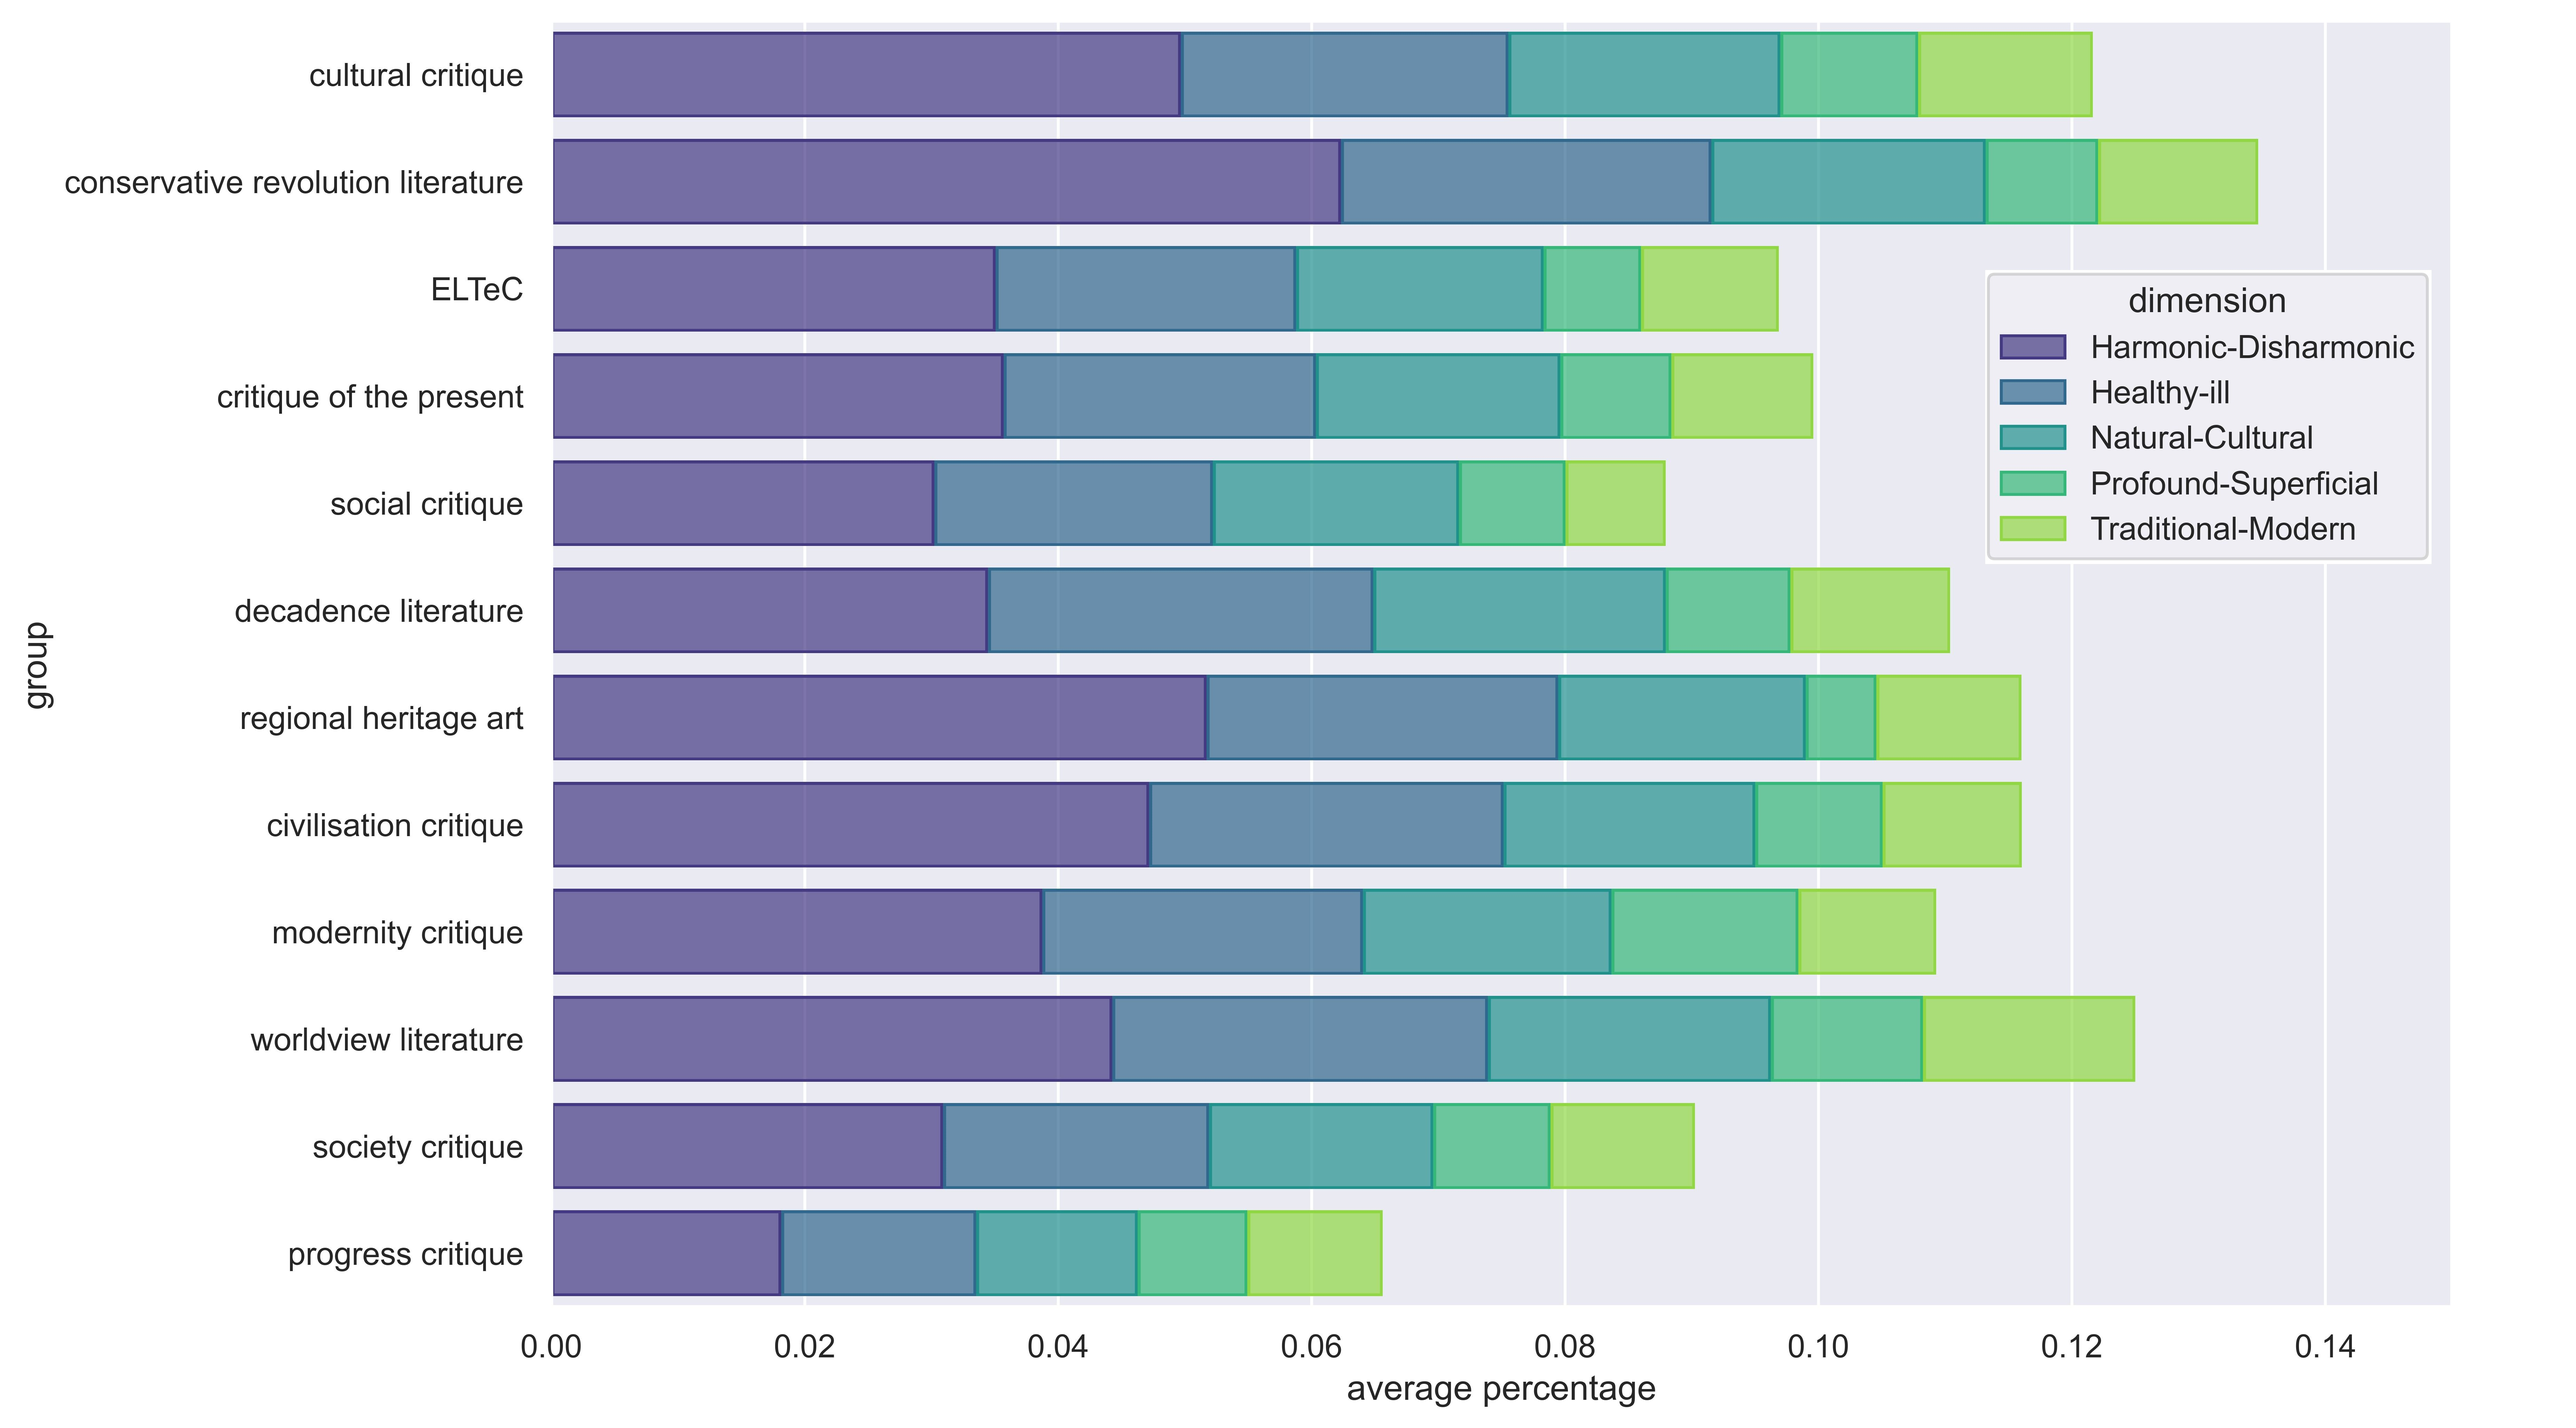
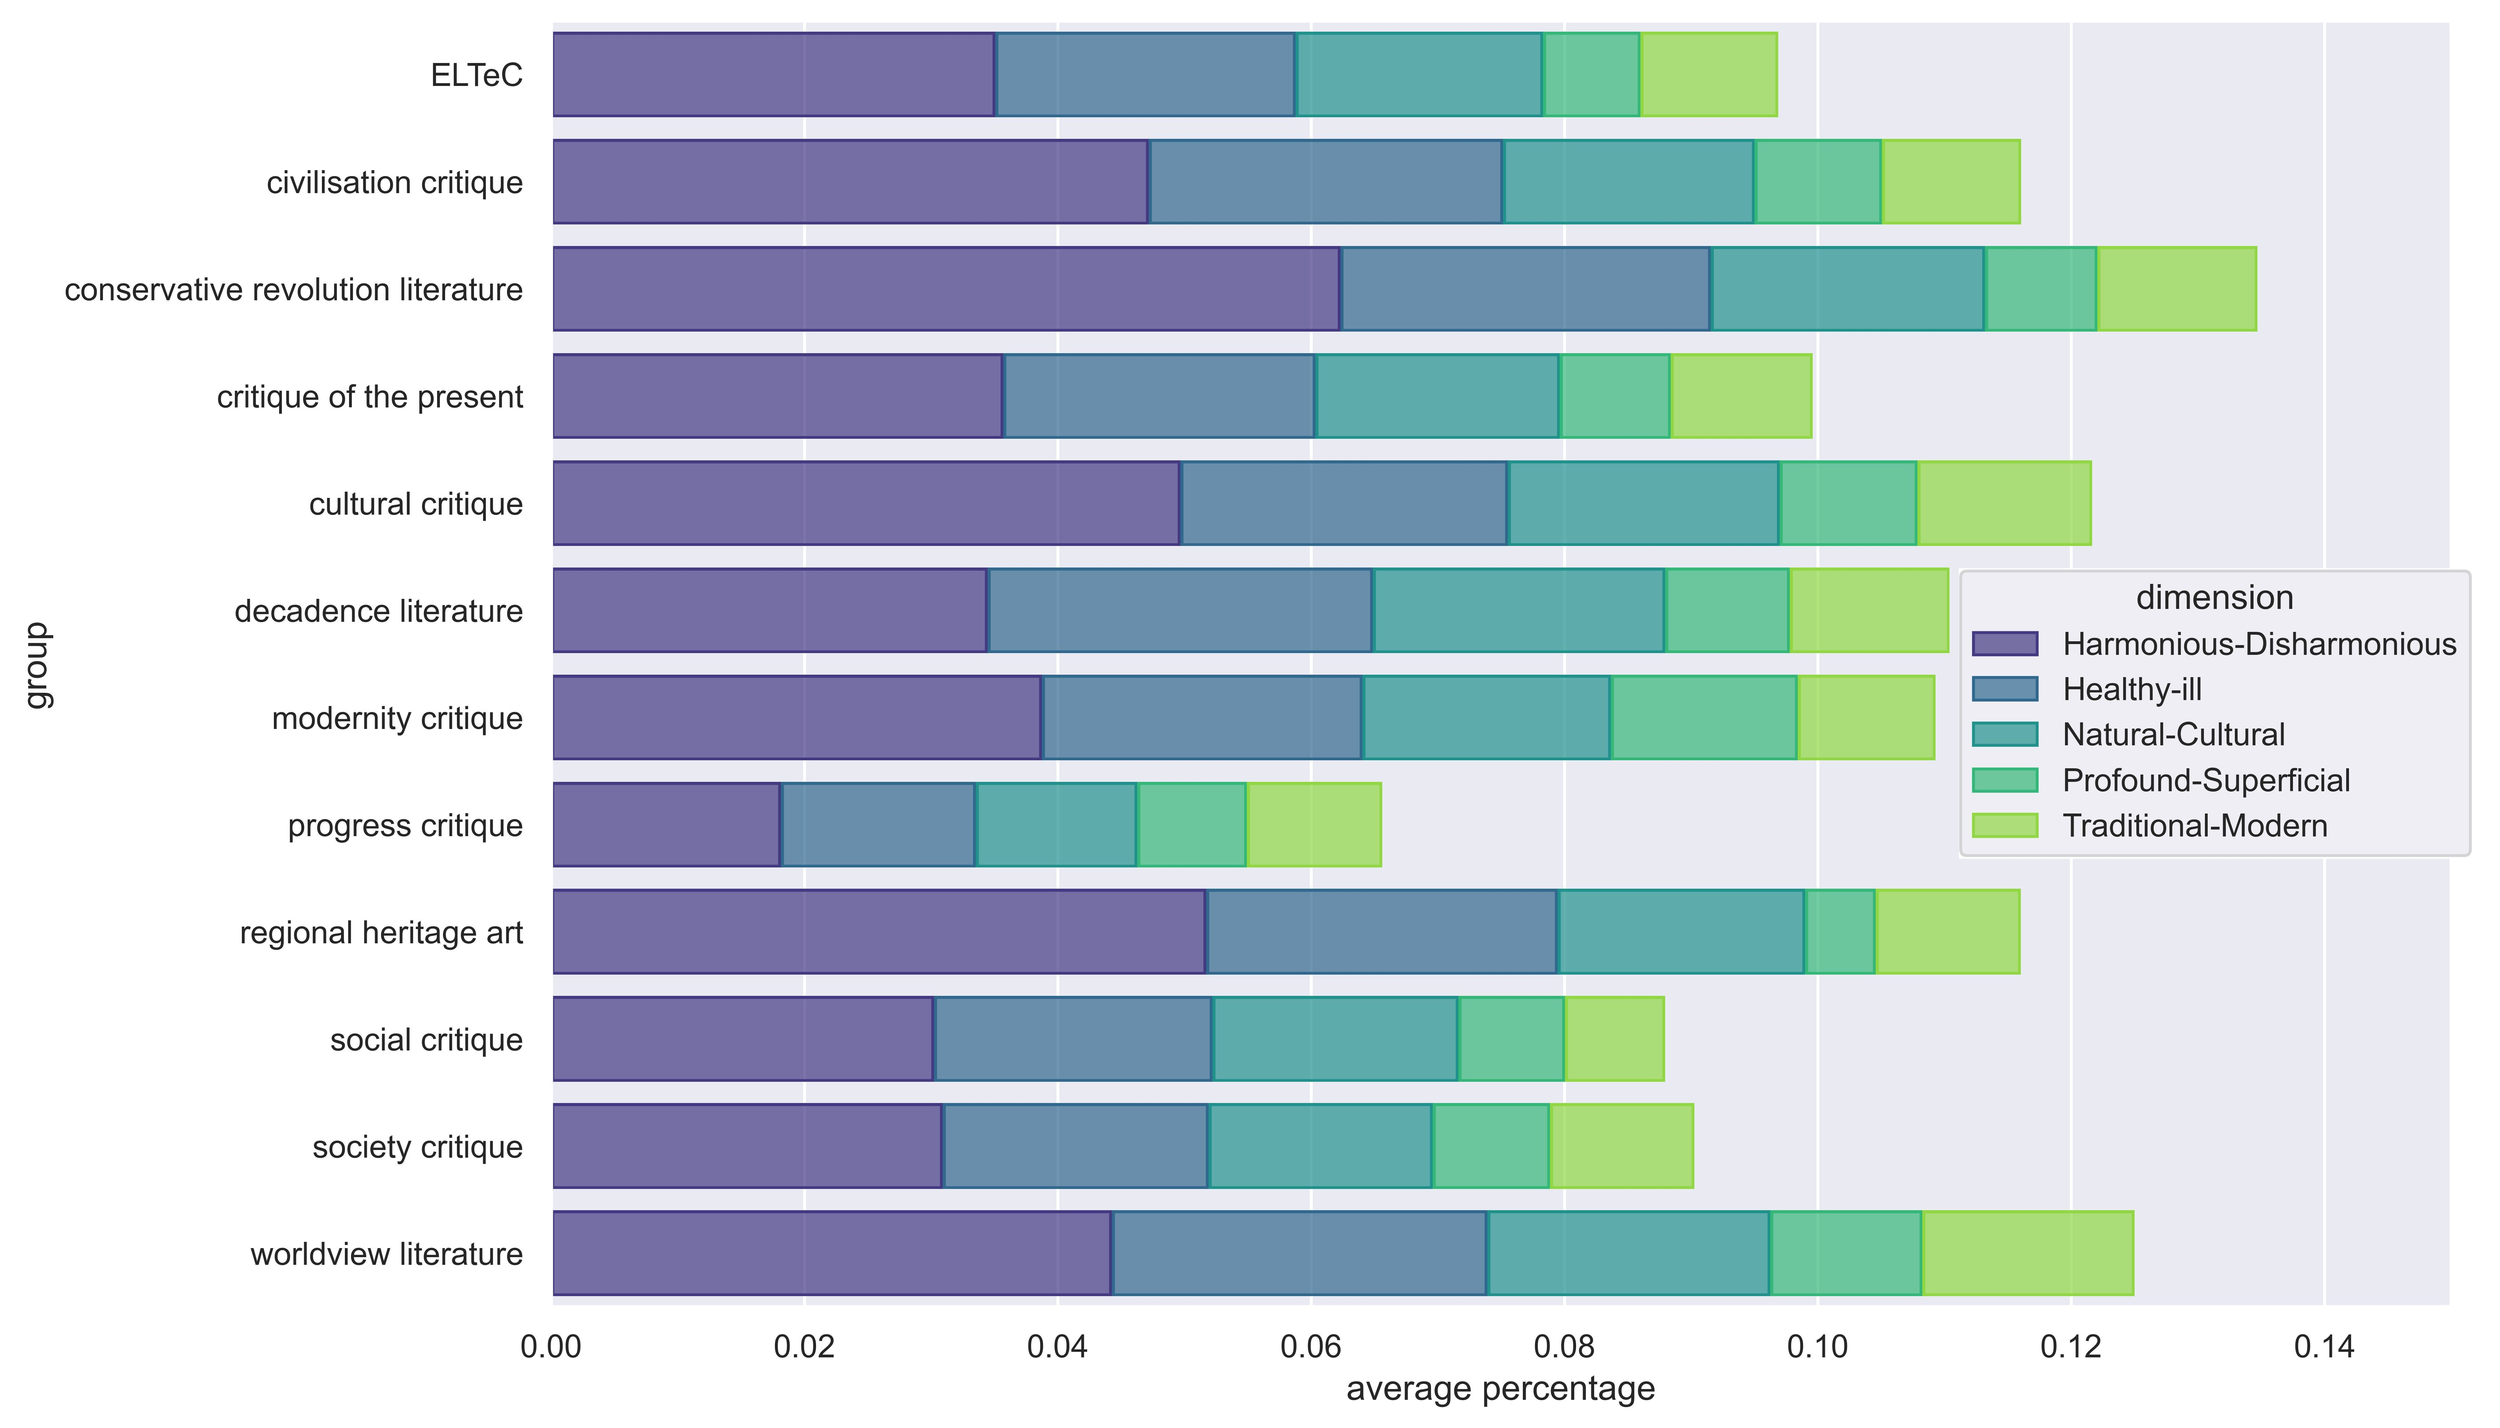
Figure update

diff --git a/code/6class_classification_visualization.py b/code/6class_classification_visualization.py
@@ -49,7 +49,7 @@ all_counts['group'] = all_counts['group'].map({'zeitkriCategorical': 'critique o
                                                'multi':'multiple categories'})
 
 all_counts['dimension'] = all_counts['dimension'].map({'Gesund-Krank': 'Healthy-ill', 
-                                               'Harmonisch-Disharmonisch': 'Harmonic-Disharmonic',
+                                               'Harmonisch-Disharmonisch': 'Harmonious-Disharmonious',
                                                'Natürlich-Kulturell': 'Natural-Cultural',
                                                'Tief-Oberflächlich': 'Profound-Superficial',
                                                'Traditionell-Modern':'Traditional-Modern'})
@@ -62,9 +62,19 @@ palette = sns.color_palette(cc.glasbey, n_colors=13)
 sns.set(font_scale=1.5)
 sns.set_style("whitegrid")
 f, ax = plt.subplots(figsize = (16,8))
-g = sns.boxplot(x='dimension', y='percentage', hue='class', palette=palette, data=df_visual, showfliers=False)
+g = sns.boxplot(x='dimension', y='percentage', hue='class', palette=palette, data=df_visual)#, showfliers=False)
 g.legend(title='group', loc='best', bbox_to_anchor=(1, 1))
-g.figure.savefig(r'F:\Kritik_projekt\results\Figures\Fig9.jpg',dpi=600)
+g.figure.savefig(r'F:\Kritik_projekt\results\Figures\Fig10.jpg',dpi=600)
+plt.show()
+
+df_visual_1 = df_visual.loc[~df_visual['group'].isin(['social critique', 'society critique'])]
+palette = sns.color_palette(cc.glasbey, n_colors=13)
+sns.set(font_scale=1.5)
+sns.set_style("whitegrid")
+f, ax = plt.subplots(figsize = (16,8))
+g = sns.boxplot(x='dimension', y='percentage', hue='class', palette=palette, data=df_visual_1)#, showfliers=False)
+g.legend(title='group', loc='best', bbox_to_anchor=(1, 1))
+g.figure.savefig(r'F:\Kritik_projekt\results\Figures\Fig10_.jpg',dpi=600)
 plt.show()
 
 #########################################################################################################################
@@ -126,12 +136,12 @@ while file_count < len(files_class6):
                 count_df_i = count_df.copy()
                 count_df_i['group'] = [i.split('_')[0]] * len(count_df)
                 count_df_i['document_name'] = file_name[:-4]
-                count_df_i['percentage'] = count_df_i['count'].div(count_sum)
+                count_df_i['average percentage'] = count_df_i['count'].div(count_sum)
                 all_count_dfs.append(count_df_i)
     if file_name[:-4].split('_')[0] != 'multi':            
         count_df['group'] = [file_name.split('_')[0]] * len(count_df)
         count_df['document_name'] = file_name[:-4]
-        count_df['percentage'] = count_df['count'].div(count_sum)
+        count_df['average percentage'] = count_df['count'].div(count_sum)
         all_count_dfs.append(count_df)
     file_count+=1
 
@@ -152,29 +162,17 @@ all_counts['group'] = all_counts['group'].map({'zeitkriCategorical': 'critique o
                                                'multi':'multiple categories'})
 
 all_counts['dimension'] = all_counts['dimension'].map({'Gesund-Krank': 'Healthy-ill', 
-                                               'Harmonisch-Disharmonisch': 'Harmonic-Disharmonic',
+                                               'Harmonisch-Disharmonisch': 'Harmonious-Disharmonious',
                                                'Natürlich-Kulturell': 'Natural-Cultural',
                                                'Tief-Oberflächlich': 'Profound-Superficial',
                                                'Traditionell-Modern':'Traditional-Modern'})
 
 all_counts = all_counts.fillna('None')
 
-df_visual = all_counts[all_counts['dimension'] != 'None']
-
-palette = sns.color_palette(cc.glasbey, n_colors=13)
-sns.set(font_scale=1.5)
-sns.set_style("whitegrid")
-f, ax = plt.subplots(figsize = (16,8))
-g = sns.boxplot(x='dimension', y='percentage', hue='group', palette=palette, data=df_visual, showfliers=False)
-#ax.set_yscale('log')
-g.legend(title='group', loc='best', bbox_to_anchor=(1, 1))
-plt.show()
-
-
 all_counts_avg = []
 for group in set(all_counts['group']):
     df_one_group = all_counts[all_counts['group'] == group]
-    df_one_group = df_one_group[['dimension', 'percentage']]
+    df_one_group = df_one_group[['dimension', 'average percentage']]
     df_one_group1 = df_one_group.groupby(['dimension']).mean()
     df_one_group1['group'] = [group] * len(df_one_group1)
     all_counts_avg.append(df_one_group1)
@@ -182,8 +180,7 @@ for group in set(all_counts['group']):
 all_counts_avg_df = pd.concat(all_counts_avg)
 all_counts_avg_df = all_counts_avg_df.reset_index()
 all_counts_avg_df_visual = all_counts_avg_df[all_counts_avg_df['dimension'] != 'None']
-all_counts_avg_df_visual = all_counts_avg_df_visual.rename(columns={'percentage': 'average percentage'}) 
-
+all_counts_avg_df_visual = all_counts_avg_df_visual.sort_values(['group', 'dimension'])
 
 pd.DataFrame.iteritems = pd.DataFrame.items
 import seaborn.objects as so
@@ -195,5 +192,5 @@ import seaborn.objects as so
 .layout(size=(12, 7))
 .limit(x=(0,0.15))
 .scale(color='viridis')#icefire
-.save(r'F:\Kritik_projekt\results\Figures\Fig10.jpg',dpi=600, bbox_inches='tight')
+.save(r'F:\Kritik_projekt\results\Figures\Fig111.jpg',dpi=600, bbox_inches='tight')
 )
